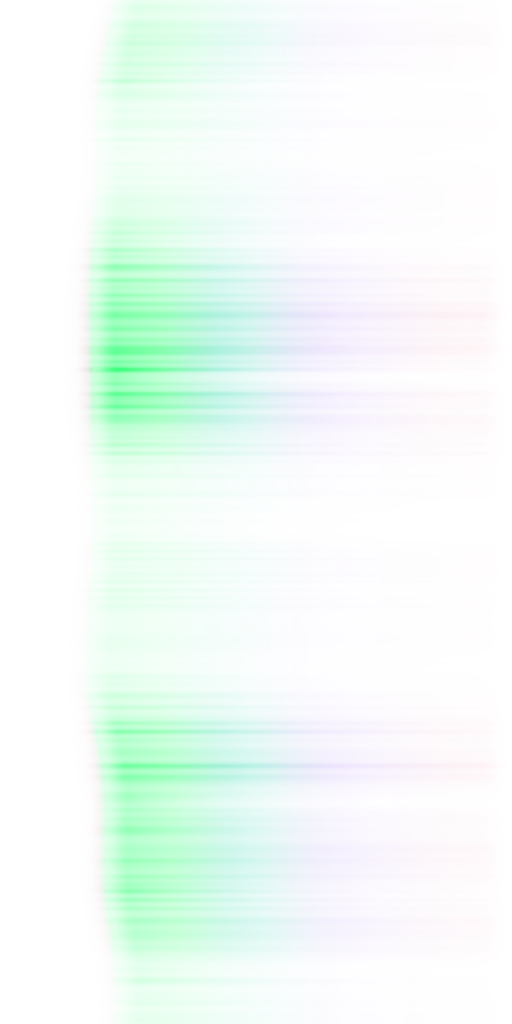
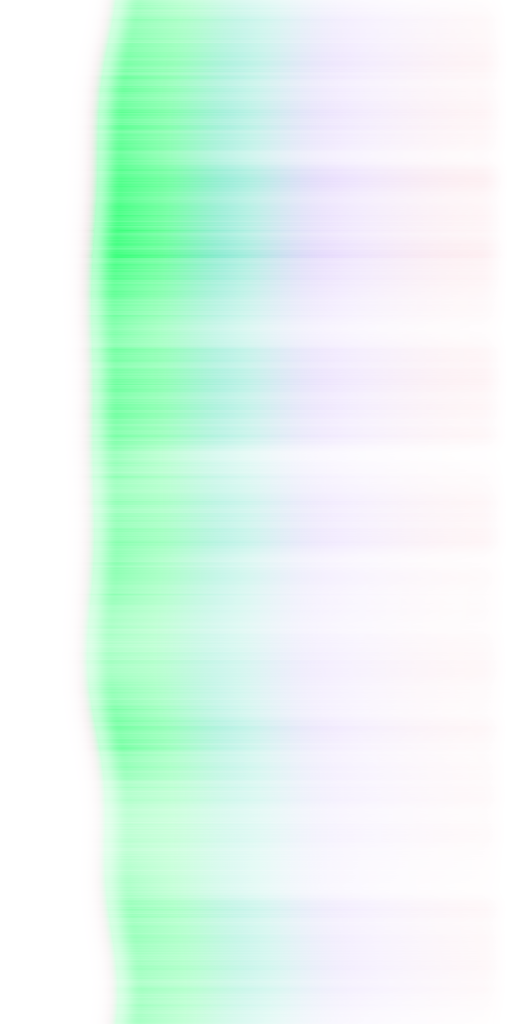
Aurora: continuous-sheet texture, curving bands in every direction, 10k area
Texture (aurora_curtain.png, re-upload needed): the curtain is now a
continuous glowing sheet with finer, denser rays running through it and
no transparent gaps between rays -- from below the old one read as a comb
of separate spikes.

Builder rewritten for an aurora over a 10,000-stud square seen from any
direction:
- 2 long main arcs across the sky plus 5 bands that start anywhere and
  head any direction, bending, hooking and sometimes curling into a
  spiral. Paths are a smooth random walk of heading, steered back near
  the edge so nothing leaves the area; folds are wide S-bends.
- Taller curtains (1400-2400) at 1900-2500 up, with 3-4 sheets 130 studs
  apart for body when you look up into them.
- Height and brightness vary smoothly along each curtain.

Claude-Session: https://claude.ai/code/session_01PhrwVyJWecRtz5MSLEXZRY

Changed region(s): [[0.1562, 0.0, 0.6875, 0.75], [0.2188, 0.7812, 0.5938, 1.0]]

diff --git a/Assets/Aurora/generate_textures.py b/Assets/Aurora/generate_textures.py
@@ -20,16 +20,19 @@ W, H = 1024, 512
 y = (np.arange(H) / (H - 1))[:, None]          # 0 top .. 1 bottom
 # ---- CURTAIN ----
 edge = 0.80 + 0.06*(tile_noise(W, 1, 5, 6) - 0.5)            # wavy lower edge
-rays = tile_noise(W, 18, 140, 90, power=0.35)                # fine vertical rays
-rays = rays**2.2                                             # sharpen into streaks
-folds = tile_noise(W, 1, 7, 10)**1.6                         # big bright/dim folds, real gaps
-reach = 0.18 + 0.30*tile_noise(W, 6, 40, 30)                 # how far each ray climbs
+# Rays are brighter STREAKS in a continuous sheet -- never gaps. Two layers: a
+# coarse set of distinct rays and a fine, dense striation over everything.
+coarse = tile_noise(W, 30, 160, 90, power=0.35)**1.6
+fine = tile_noise(W, 150, 480, 160, power=0.2)
+rays = 0.6*coarse + 0.4*fine
+folds = tile_noise(W, 1, 7, 10)**1.3                         # big bright/dim folds (the builder adds knots too)
+reach = 0.22 + 0.26*tile_noise(W, 6, 40, 30)                 # how far each ray climbs
 h = edge[None, :] - y                                        # height above lower edge
 above = np.exp(-np.clip(h, 0, None) / reach[None, :])        # fade upward
 below = np.exp(-np.clip(-h, 0, None) / 0.012)                # razor bottom edge
 profile = np.where(h >= 0, above, below)
-ray_mix = 0.45 + 0.55*rays[None, :]
-intensity = profile * ray_mix * (0.12 + 0.88*folds[None, :])
+ray_mix = 0.62 + 0.38*rays[None, :]   # the sheet never drops out between rays
+intensity = profile * ray_mix * (0.35 + 0.65*folds[None, :])
 # the upper colours are a faint tint, not a band of their own
 intensity *= 1 - 0.55*smoothstep(0.12, 0.55, np.clip(h, 0, None))
 intensity *= 1 - smoothstep(0.0, 0.06, 0.06 - y)             # never touch the very top
